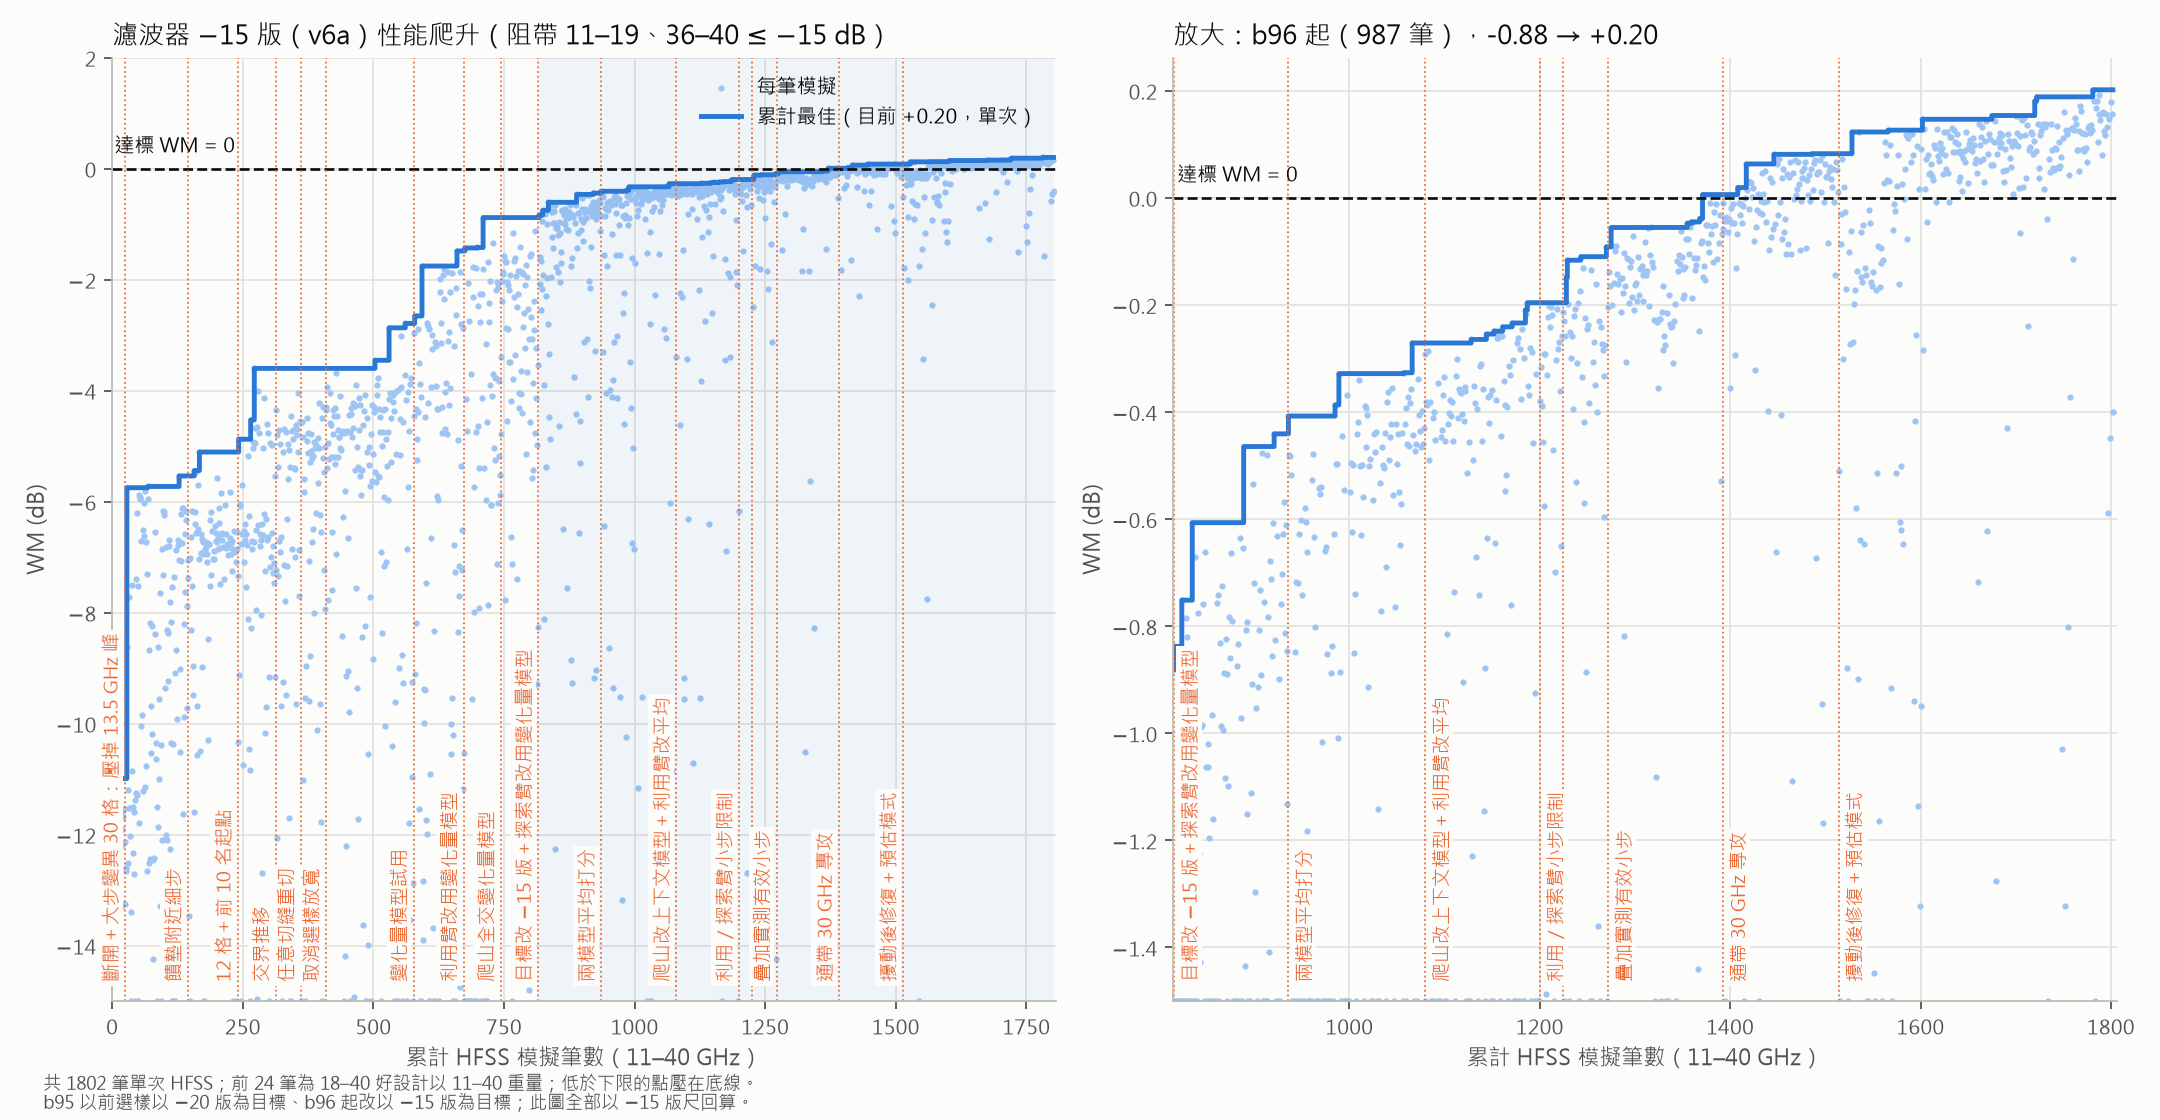
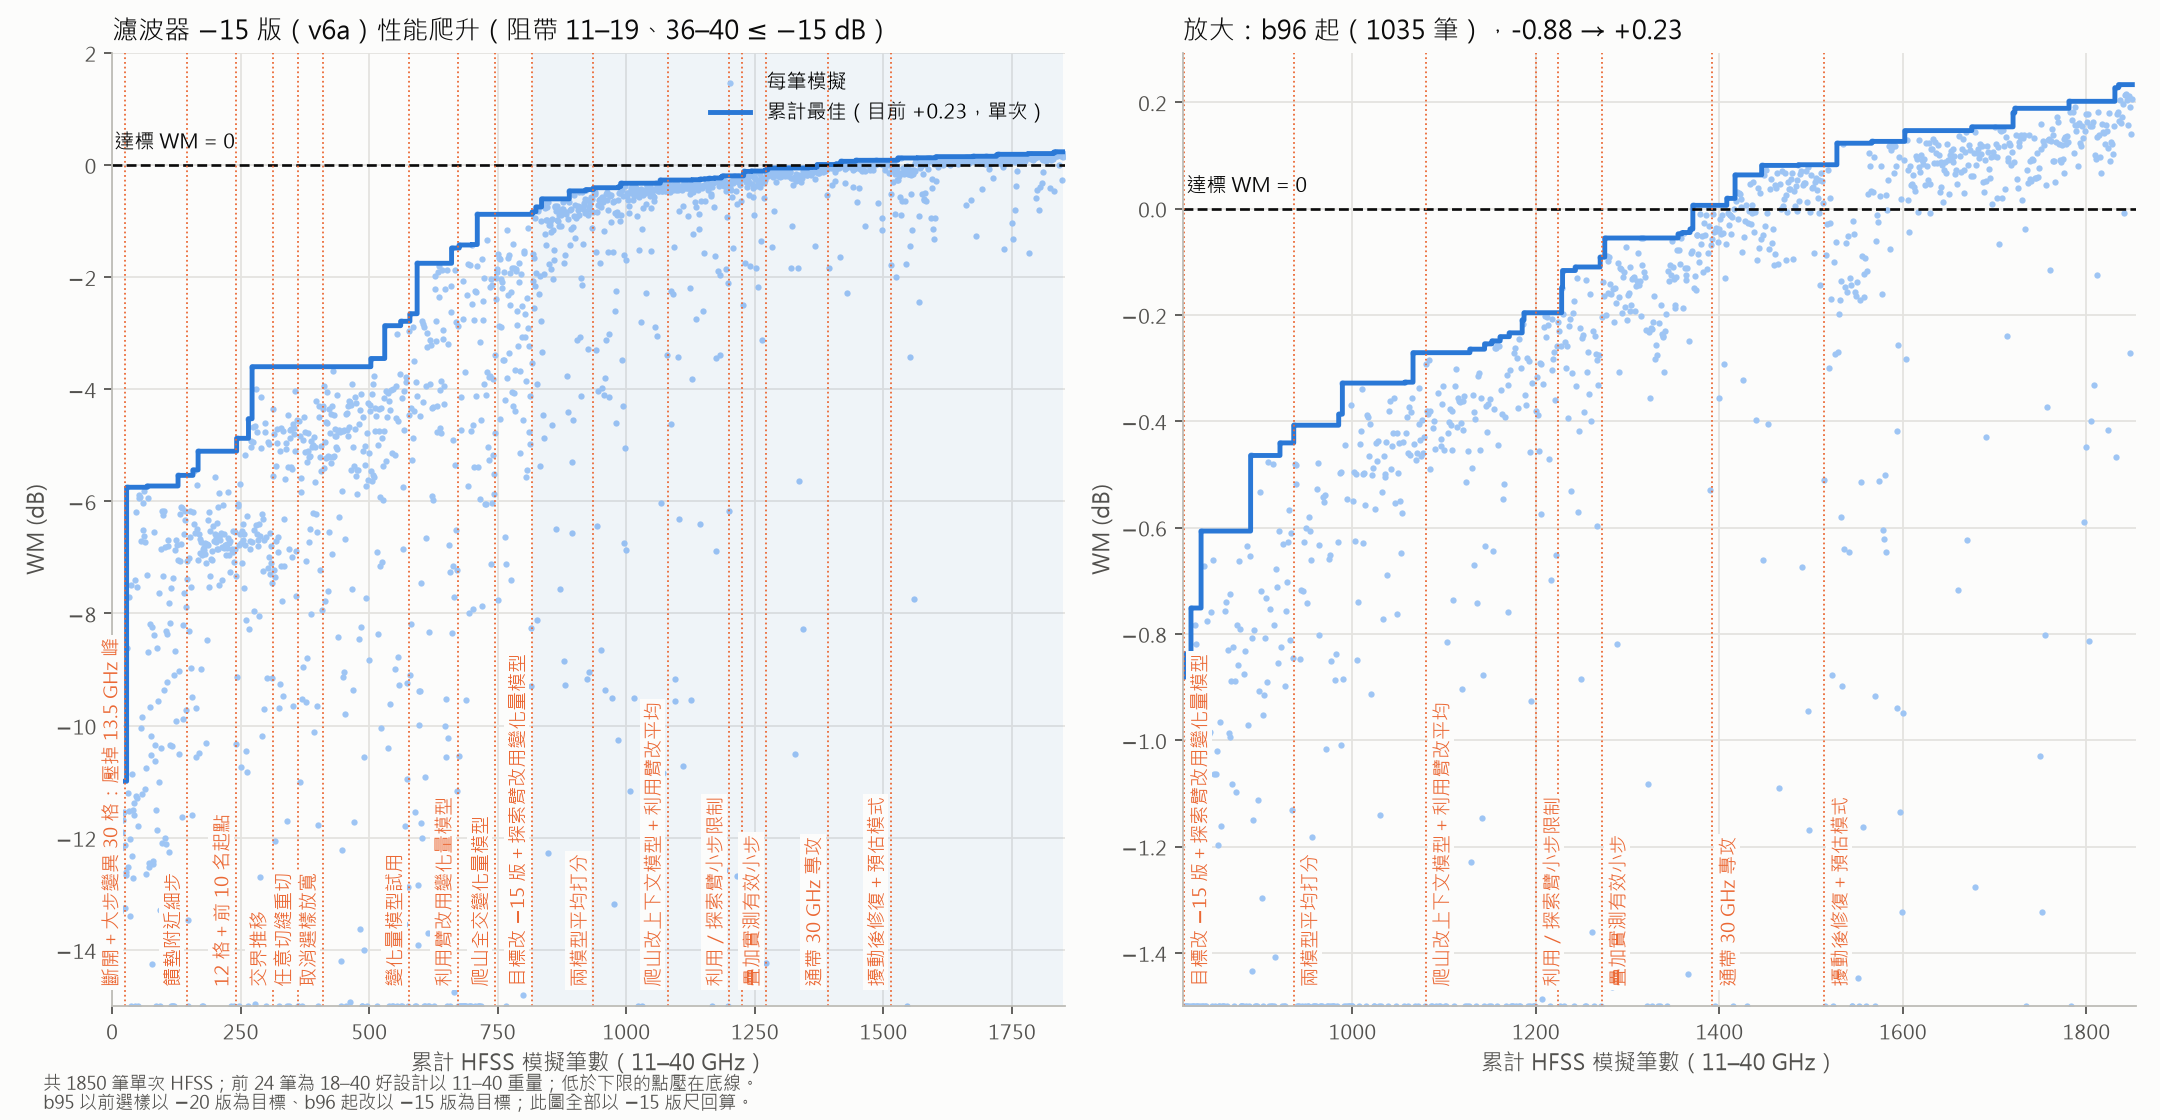
R95：公證 n18——mg25_011 +0.227（218=216），公證最佳；mg26 平台上移 +0.21～+0.23

diff --git a/script/figs/r81_v6.py b/script/figs/r81_v6.py
@@ -31,7 +31,7 @@ NOTARIZED = {                     # v6a 跨機公證通過（round-89／90）；
     "r81v6mg14_015_00661532": "216＝37", "r81v6mg15_005_c943952c": "216＝37",
     "r81v6mg18_011_9c63dfbd": "37＝216", "r81v6mg20_011_04c84008": "216＝218",
     "r81v6mg23_013_70f5551f": "218＝216",
-    "r81v6mg23_018_d4347f75": "216＝37"}
+    "r81v6mg23_018_d4347f75": "216＝37", "r81v6mg25_011_b1bf6978": "218＝216"}
 
 
 def rows_v6(cfg, grid):

diff --git a/configs/ONGOING.md b/configs/ONGOING.md
@@ -4,7 +4,7 @@
 > 2026-10-12 前的完整流水帳（R80 收尾、Codex 的 R81 release 機制、diffsim、資料工廠、🔜 候選、✅ 指標）原樣封存在
 > [docs/log/archive/ongoing-2026-10-12.md](../docs/log/archive/ongoing-2026-10-12.md)。
 
-最後更新：2026-10-22 17:16
+最後更新：2026-10-22 18:18
 
 ## 🔵 R81 寬頻濾波器 spec v2（running）→ [round-81](../docs/log/round-81-wide-filter.md)
 
@@ -43,6 +43,7 @@
 
 ## 🔵 R95 v6a 續爬 +0.20 之後（running）→ [round-95](../docs/log/round-95-v6a-020.md)
 
+- **10-22 18:18 公證最佳 `mg25_011` +0.227**（218＝216）；mg26_006 +0.23 公證中。
 - 公證最佳 `mg23_018` +0.202（216＝37）。R94 已結（✅）。mg25（移植）、mg26（預估）進行中。
 - 待查：218 對部分幾何離群（第 3 例 mg20_005）。
 

diff --git a/docs/log/round-95-v6a-020.md b/docs/log/round-95-v6a-020.md
@@ -18,6 +18,11 @@
 - mg26：`r89_merge --n 24 --base-mode top --predict r81v6mg23_018_d4347f75,r81v6mg23_013_70f5551f,r81v6mg25_007_7e234ed1 --name r81v6mg26`
 
 ## 4. 分析 (Analyze)
+### 2026-10-22 18:18：mg25／mg26 前段；公證 n18——**mg25_011 +0.227（218＝216）**
+
+- mg25（移植，15）最佳 **mg25_011 +0.227**（218 原量）；216 重量 +0.2272、曲線差 2×10⁻⁶ dB → 公證最佳（通帶 +0.227、低阻 +0.795、高阻 +1.903、S11 +1.804、S22 +4.449）。37（n19）第三方排隊中。
+- mg26（預估，216 量的第一片）：+0.23（mg26_006）、+0.22、+0.21×2——平台上移到 +0.2 以上。mg26_006 公證 n20 排 218。mg27（移植，22 筆）已排。
+
 
 ## 5. 結論 (Conclude)
 
